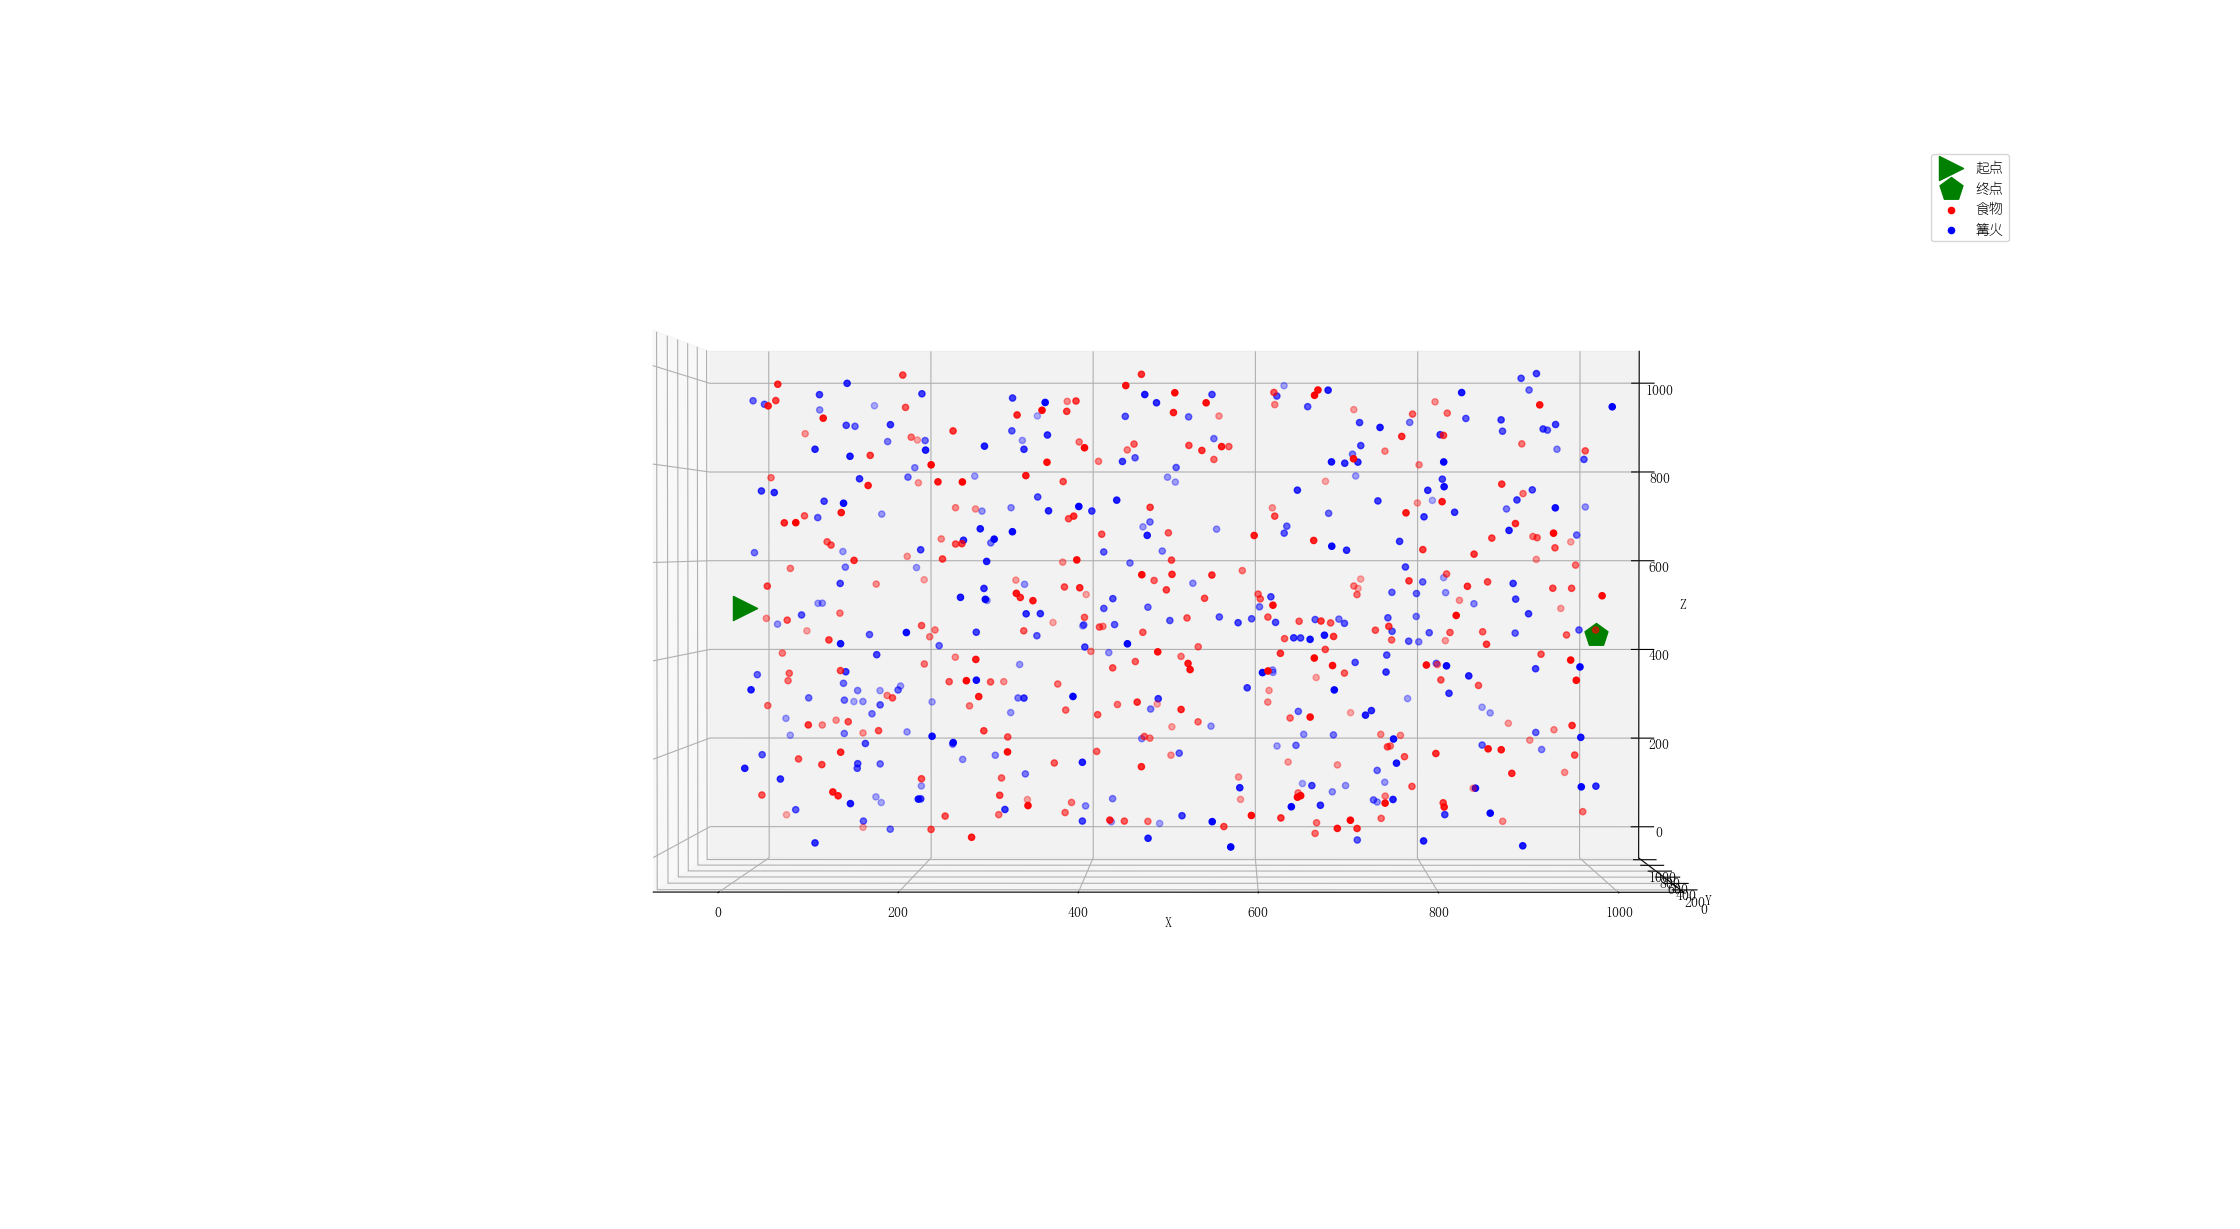
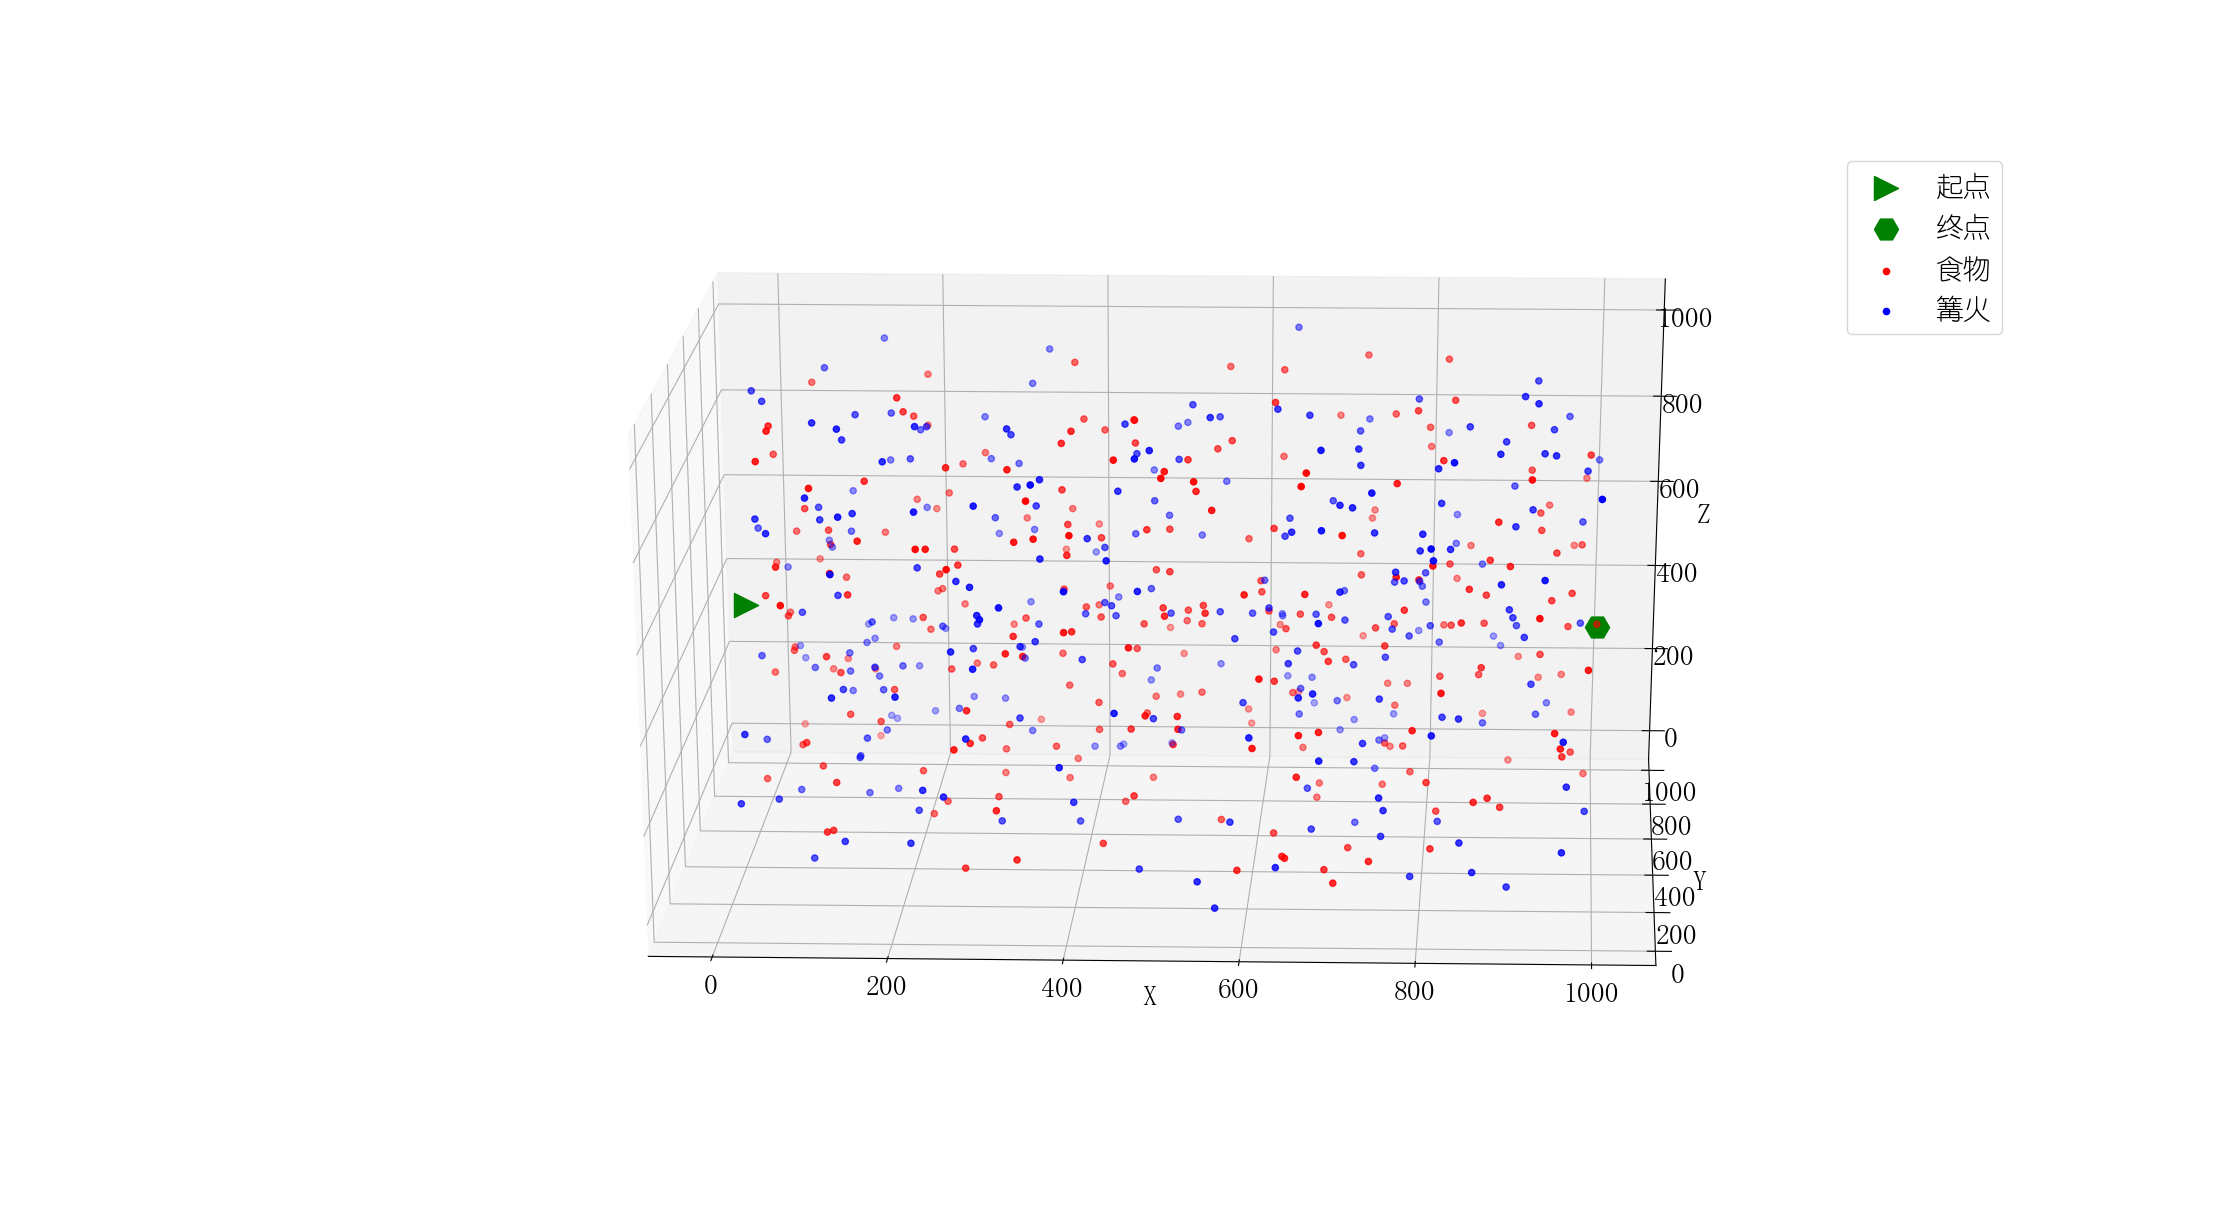
darw picture

diff --git a/tools.py b/tools.py
@@ -3,7 +3,9 @@ import numpy as np
 from mpl_toolkits.mplot3d import Axes3D
 import pandas as pd
 
-plt.rc("font",family='YouYuan')
+plt.rc("font", family='YouYuan')
+plt.rcParams.update({'font.size': 20})
+plt.legend(loc='best')
 
 # 获取地图坐标、食物和篝火信息
 def Get_Map_Information(file):
@@ -70,7 +72,7 @@ def Draw_Resource(file):
     if choice == '1':
         ax = plt.subplot(projection="3d")
         origin = ax.scatter(origin_X, origin_Y, origin_Z, s = 300, c = 'g', marker = '>')
-        destination = ax.scatter(destination_X, destination_Y, destination_Z, s = 300, c = 'g', marker = 'p')
+        destination = ax.scatter(destination_X, destination_Y, destination_Z, s = 300, c = 'g', marker = 'H')
         food = ax.scatter(food_X, food_Y, food_Z, c = 'r')
         bonfire = ax.scatter(bonfire_X, bonfire_Y, bonfire_Z, c = 'b')
         plt.legend((origin, destination, food, bonfire), ('起点', '终点', '食物', '篝火'))
@@ -84,8 +86,8 @@ def Draw_Resource(file):
         ax = plt.subplot()
         # fig = plt.figure()
         # ax = fig.add_subplot(1, 1, 1)
-        origin = ax.scatter(origin_X, origin_Y, s = 300, c = 'g', marker = '>')
-        destination = ax.scatter(destination_X, destination_Y, s = 300, c = 'g', marker = 'p')
+        origin = ax.scatter(origin_X, origin_Y, s = 200, c = 'g', marker = '>')
+        destination = ax.scatter(destination_X, destination_Y, s = 200, c = 'g', marker = 'H')
         food = ax.scatter(food_X, food_Y, c = 'r')
         bonfire = ax.scatter(bonfire_X, bonfire_Y, c = 'b')
         plt.legend((origin, destination, food, bonfire), ('起点', '终点', '食物', '篝火'))
